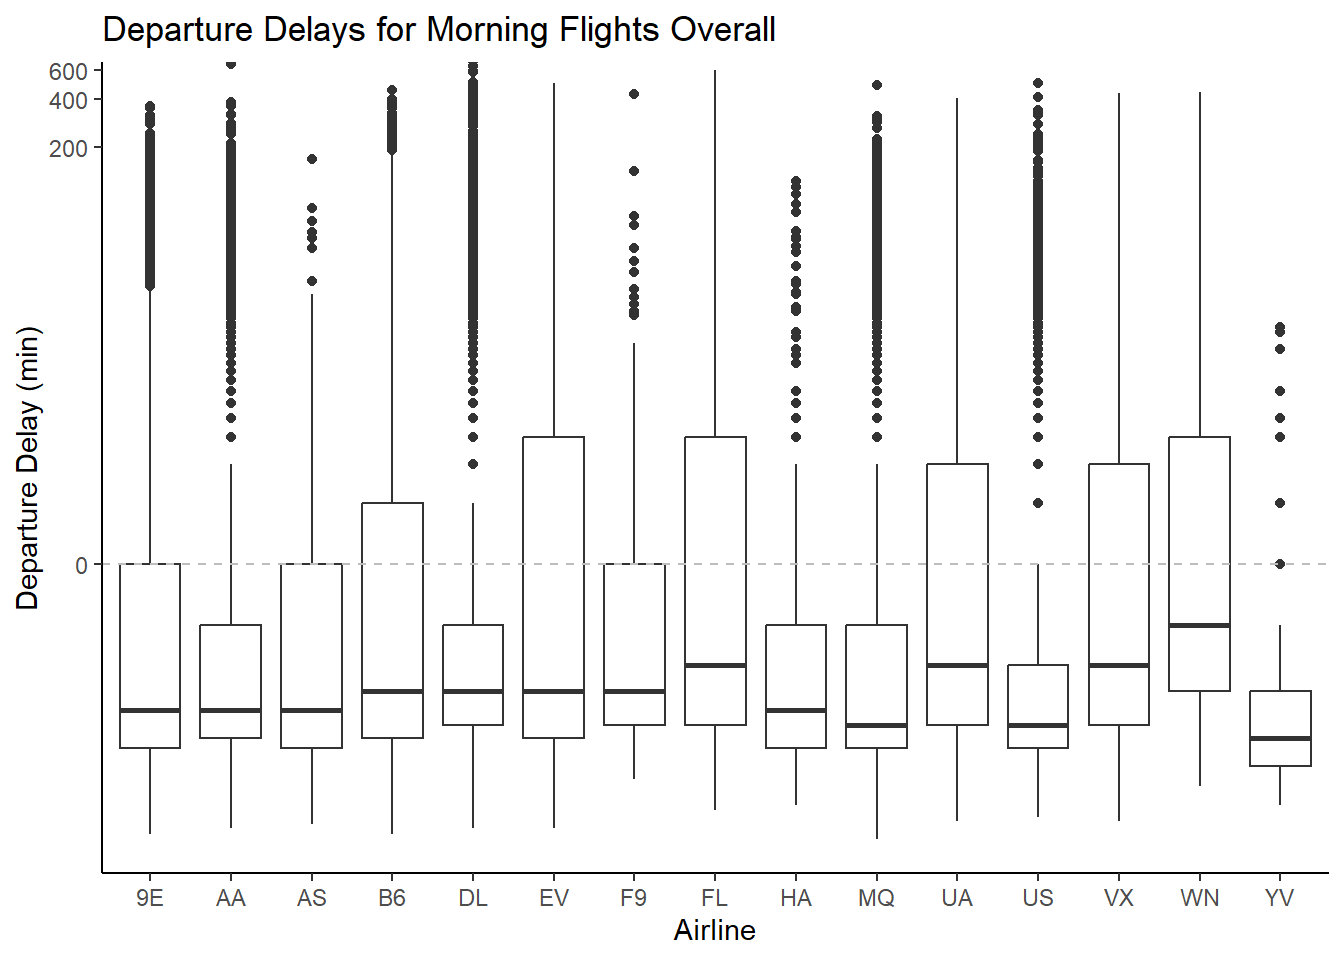
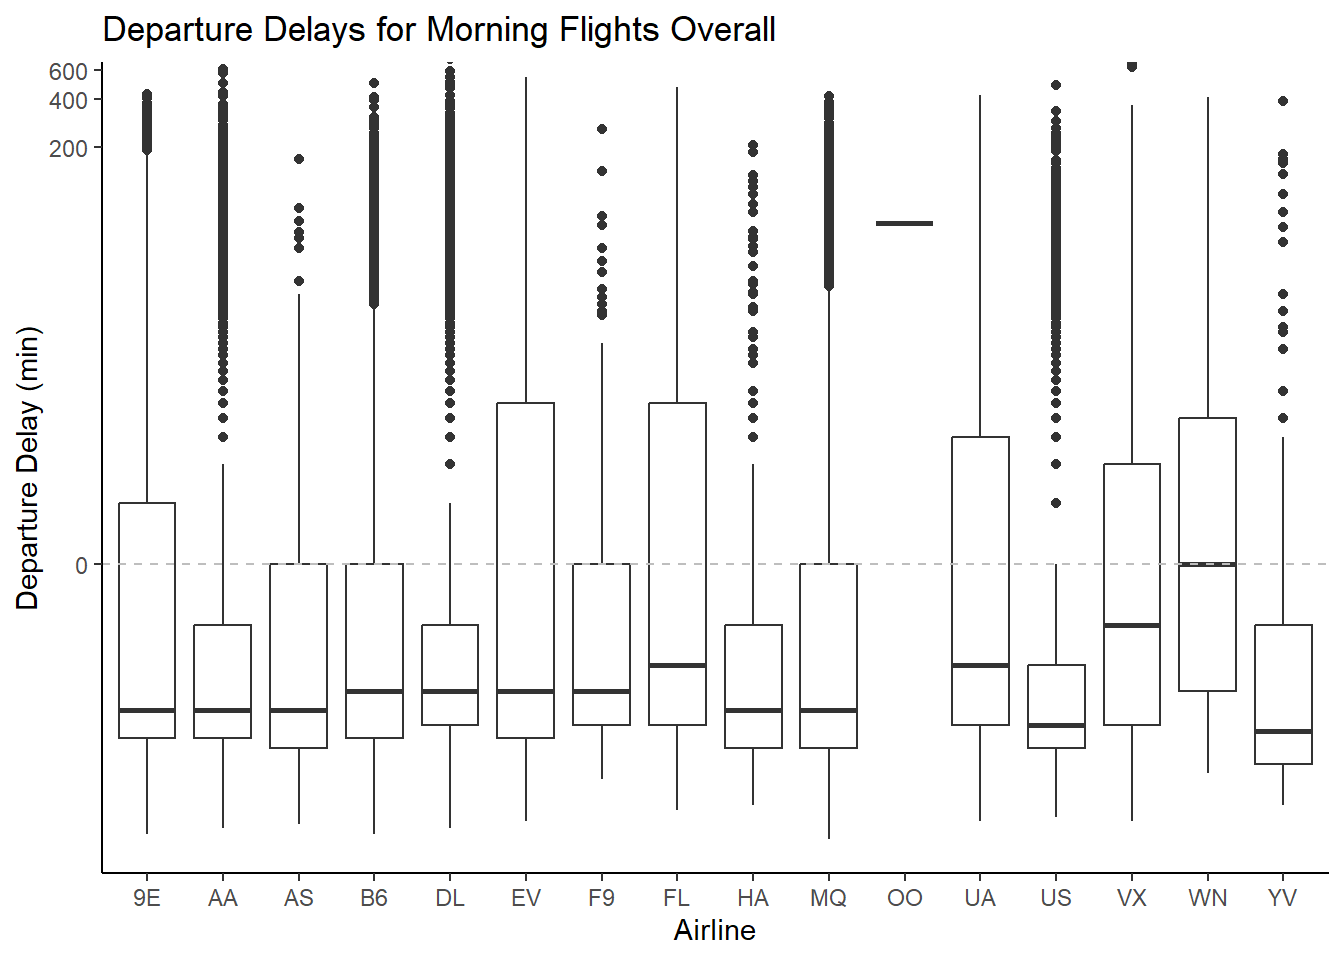
Updated x-axis labels and corrected data filtering

diff --git a/week_03/Wings to Fly.html b/week_03/Wings to Fly.html
@@ -148,7 +148,7 @@ The following object is masked from 'package:readr':
 <details class="code-fold">
 <summary>Code</summary>
 <div class="sourceCode cell-code" id="cb7"><pre class="sourceCode r code-with-copy"><code class="sourceCode r"><span id="cb7-1"><a href="#cb7-1" aria-hidden="true" tabindex="-1"></a>flights2 <span class="ot">&lt;-</span> flights <span class="sc">%&gt;%</span></span>
-<span id="cb7-2"><a href="#cb7-2" aria-hidden="true" tabindex="-1"></a>  <span class="fu">filter</span>(dep_time <span class="sc">&lt;</span> <span class="dv">1200</span>)</span>
+<span id="cb7-2"><a href="#cb7-2" aria-hidden="true" tabindex="-1"></a>  <span class="fu">filter</span>(sched_dep_time <span class="sc">&lt;</span> <span class="dv">1200</span>)</span>
 <span id="cb7-3"><a href="#cb7-3" aria-hidden="true" tabindex="-1"></a></span>
 <span id="cb7-4"><a href="#cb7-4" aria-hidden="true" tabindex="-1"></a>flights3 <span class="ot">&lt;-</span> flights <span class="sc">%&gt;%</span> </span>
 <span id="cb7-5"><a href="#cb7-5" aria-hidden="true" tabindex="-1"></a>  <span class="fu">filter</span>(carrier <span class="sc">==</span> <span class="st">"DL"</span>)</span></code><button title="Copy to Clipboard" class="code-copy-button"><i class="bi"></i></button></pre></div>
@@ -167,6 +167,10 @@ The following object is masked from 'package:readr':
 <span id="cb8-6"><a href="#cb8-6" aria-hidden="true" tabindex="-1"></a>  <span class="fu">labs</span>( <span class="at">title =</span> <span class="st">"Departure Delays for Morning Flights Overall"</span>, <span class="at">x =</span> <span class="st">"Airline"</span>, <span class="at">y =</span> <span class="st">"Departure Delay (min)"</span>) <span class="sc">+</span> </span>
 <span id="cb8-7"><a href="#cb8-7" aria-hidden="true" tabindex="-1"></a>  <span class="fu">theme_classic</span>()</span></code><button title="Copy to Clipboard" class="code-copy-button"><i class="bi"></i></button></pre></div>
 </details>
+<div class="cell-output cell-output-stderr">
+<pre><code>Warning: Removed 2079 rows containing non-finite outside the scale range
+(`stat_boxplot()`).</code></pre>
+</div>
 <div class="cell-output-display">
 <div>
 <figure class="figure">
@@ -176,15 +180,20 @@ The following object is masked from 'package:readr':
 </div>
 <details class="code-fold">
 <summary>Code</summary>
-<div class="sourceCode cell-code" id="cb9"><pre class="sourceCode r code-with-copy"><code class="sourceCode r"><span id="cb9-1"><a href="#cb9-1" aria-hidden="true" tabindex="-1"></a><span class="fu">ggplot</span>(flights2, <span class="fu">aes</span>(<span class="at">x =</span> carrier, <span class="at">y =</span> dep_delay, <span class="at">color =</span> origin)) <span class="sc">+</span></span>
-<span id="cb9-2"><a href="#cb9-2" aria-hidden="true" tabindex="-1"></a>  <span class="fu">geom_boxplot</span>() <span class="sc">+</span></span>
-<span id="cb9-3"><a href="#cb9-3" aria-hidden="true" tabindex="-1"></a>  <span class="fu">geom_hline</span>(<span class="at">yintercept =</span> <span class="dv">0</span>, <span class="at">linetype =</span> <span class="st">"dashed"</span>, <span class="at">color =</span> <span class="st">"gray"</span>) <span class="sc">+</span></span>
-<span id="cb9-4"><a href="#cb9-4" aria-hidden="true" tabindex="-1"></a>  <span class="fu">coord_cartesian</span>(<span class="at">ylim =</span> <span class="fu">c</span>(<span class="sc">-</span><span class="dv">25</span>, <span class="dv">400</span>)) <span class="sc">+</span></span>
-<span id="cb9-5"><a href="#cb9-5" aria-hidden="true" tabindex="-1"></a>  <span class="fu">scale_y_continuous</span>(<span class="at">trans =</span> <span class="fu">asinh_trans</span>()) <span class="sc">+</span></span>
-<span id="cb9-6"><a href="#cb9-6" aria-hidden="true" tabindex="-1"></a>  <span class="fu">labs</span>( <span class="at">title =</span> <span class="st">"Departure Delays for Morning Flights"</span>, <span class="at">x =</span> <span class="st">"Airline"</span>, <span class="at">y =</span> <span class="st">"Departure Delay (min)"</span>) <span class="sc">+</span> </span>
-<span id="cb9-7"><a href="#cb9-7" aria-hidden="true" tabindex="-1"></a>  <span class="fu">facet_wrap</span>( <span class="sc">~</span>origin, <span class="at">nrow =</span> <span class="dv">1</span>, <span class="at">ncol =</span> <span class="dv">3</span>) <span class="sc">+</span></span>
-<span id="cb9-8"><a href="#cb9-8" aria-hidden="true" tabindex="-1"></a>  <span class="fu">theme_classic</span>()</span></code><button title="Copy to Clipboard" class="code-copy-button"><i class="bi"></i></button></pre></div>
+<div class="sourceCode cell-code" id="cb10"><pre class="sourceCode r code-with-copy"><code class="sourceCode r"><span id="cb10-1"><a href="#cb10-1" aria-hidden="true" tabindex="-1"></a><span class="fu">ggplot</span>(flights2, <span class="fu">aes</span>(<span class="at">x =</span> carrier, <span class="at">y =</span> dep_delay, <span class="at">color =</span> origin)) <span class="sc">+</span></span>
+<span id="cb10-2"><a href="#cb10-2" aria-hidden="true" tabindex="-1"></a>  <span class="fu">geom_boxplot</span>() <span class="sc">+</span></span>
+<span id="cb10-3"><a href="#cb10-3" aria-hidden="true" tabindex="-1"></a>  <span class="fu">geom_hline</span>(<span class="at">yintercept =</span> <span class="dv">0</span>, <span class="at">linetype =</span> <span class="st">"dashed"</span>, <span class="at">color =</span> <span class="st">"gray"</span>) <span class="sc">+</span></span>
+<span id="cb10-4"><a href="#cb10-4" aria-hidden="true" tabindex="-1"></a>  <span class="fu">coord_cartesian</span>(<span class="at">ylim =</span> <span class="fu">c</span>(<span class="sc">-</span><span class="dv">25</span>, <span class="dv">400</span>)) <span class="sc">+</span></span>
+<span id="cb10-5"><a href="#cb10-5" aria-hidden="true" tabindex="-1"></a>  <span class="fu">scale_y_continuous</span>(<span class="at">trans =</span> <span class="fu">asinh_trans</span>()) <span class="sc">+</span></span>
+<span id="cb10-6"><a href="#cb10-6" aria-hidden="true" tabindex="-1"></a>  <span class="fu">scale_x_discrete</span>(<span class="at">guide =</span> <span class="fu">guide_axis</span>(<span class="at">angle =</span> <span class="dv">90</span>)) <span class="sc">+</span></span>
+<span id="cb10-7"><a href="#cb10-7" aria-hidden="true" tabindex="-1"></a>  <span class="fu">labs</span>( <span class="at">title =</span> <span class="st">"Departure Delays for Morning Flights"</span>, <span class="at">x =</span> <span class="st">"Airline"</span>, <span class="at">y =</span> <span class="st">"Departure Delay (min)"</span>) <span class="sc">+</span> </span>
+<span id="cb10-8"><a href="#cb10-8" aria-hidden="true" tabindex="-1"></a>  <span class="fu">facet_wrap</span>( <span class="sc">~</span>origin, <span class="at">nrow =</span> <span class="dv">1</span>, <span class="at">ncol =</span> <span class="dv">3</span>) <span class="sc">+</span></span>
+<span id="cb10-9"><a href="#cb10-9" aria-hidden="true" tabindex="-1"></a>  <span class="fu">theme_classic</span>()</span></code><button title="Copy to Clipboard" class="code-copy-button"><i class="bi"></i></button></pre></div>
 </details>
+<div class="cell-output cell-output-stderr">
+<pre><code>Warning: Removed 2079 rows containing non-finite outside the scale range
+(`stat_boxplot()`).</code></pre>
+</div>
 <div class="cell-output-display">
 <div>
 <figure class="figure">
@@ -193,21 +202,21 @@ The following object is masked from 'package:readr':
 </div>
 </div>
 </div>
-<p>The origin airport with the lowest 75th percentile of flights leaving before noon with delayed departure is YV. Overall, YV flights depart ahead of schedule for the majority of their flights.</p>
-<p>However, for each of these airports, the airline carrier with the lowest 75th percentile is different. Departing from EWR airport, 9E, DL, and US are nearly exactly tied for the lowest 75th percentile of delayed departure flights. At JFK ariport, HA and DL are nearly exactly tied for the lowest 75th percentile of delayed departure flights. At LGA, US and YV are tied for the lowest 75th percentile of delayed departure flights. This means that</p>
+<p>The origin airport with the lowest 75th percentile of flights leaving before noon with delayed departure is US. Overall, US flights depart ahead of schedule for the majority of their flights.</p>
+<p>However, for each of these airports, the airline carrier with the lowest 75th percentile is different. Departing from EWR airport, 9E and US are nearly exactly tied for the lowest 75th percentile of delayed departure flights. At JFK ariport, HA and DL are nearly exactly tied for the lowest 75th percentile of delayed departure flights. At LGA, US claims the lowest 75th percentile of delayed departure flights.</p>
 </section>
 <section id="which-origin-airport-is-best-to-minimize-my-chances-of-a-late-arrival-when-i-am-using-delta-airlines" class="level2">
 <h2 class="anchored" data-anchor-id="which-origin-airport-is-best-to-minimize-my-chances-of-a-late-arrival-when-i-am-using-delta-airlines">Which origin airport is best to minimize my chances of a late arrival when I am using Delta Airlines?</h2>
 <div class="cell">
 <details class="code-fold">
 <summary>Code</summary>
-<div class="sourceCode cell-code" id="cb10"><pre class="sourceCode r code-with-copy"><code class="sourceCode r"><span id="cb10-1"><a href="#cb10-1" aria-hidden="true" tabindex="-1"></a><span class="fu">ggplot</span>(flights3, <span class="fu">aes</span>(<span class="at">x =</span> sched_arr_time, <span class="at">y =</span> arr_delay, <span class="at">color =</span> origin)) <span class="sc">+</span></span>
-<span id="cb10-2"><a href="#cb10-2" aria-hidden="true" tabindex="-1"></a>  <span class="fu">geom_point</span>() <span class="sc">+</span></span>
-<span id="cb10-3"><a href="#cb10-3" aria-hidden="true" tabindex="-1"></a>  <span class="fu">geom_smooth</span>(<span class="at">color =</span> <span class="st">"black"</span>) <span class="sc">+</span></span>
-<span id="cb10-4"><a href="#cb10-4" aria-hidden="true" tabindex="-1"></a>  <span class="fu">labs</span>(<span class="at">title =</span> <span class="st">"Delayed Arrival Flying Delta"</span>, <span class="at">x =</span> <span class="st">"Scheduled Arrival (min)"</span>, <span class="at">y =</span> <span class="st">"Delayed Arrival (min)"</span>) <span class="sc">+</span></span>
-<span id="cb10-5"><a href="#cb10-5" aria-hidden="true" tabindex="-1"></a>  <span class="fu">coord_cartesian</span>(<span class="at">ylim =</span> <span class="fu">c</span>(<span class="sc">-</span><span class="dv">50</span>, <span class="dv">400</span>)) <span class="sc">+</span></span>
-<span id="cb10-6"><a href="#cb10-6" aria-hidden="true" tabindex="-1"></a>  <span class="fu">facet_wrap</span>( <span class="sc">~</span> origin, <span class="at">nrow =</span> <span class="dv">1</span>, <span class="at">ncol=</span> <span class="dv">3</span>) <span class="sc">+</span></span>
-<span id="cb10-7"><a href="#cb10-7" aria-hidden="true" tabindex="-1"></a>  <span class="fu">theme_bw</span>()</span></code><button title="Copy to Clipboard" class="code-copy-button"><i class="bi"></i></button></pre></div>
+<div class="sourceCode cell-code" id="cb12"><pre class="sourceCode r code-with-copy"><code class="sourceCode r"><span id="cb12-1"><a href="#cb12-1" aria-hidden="true" tabindex="-1"></a><span class="fu">ggplot</span>(flights3, <span class="fu">aes</span>(<span class="at">x =</span> sched_arr_time, <span class="at">y =</span> arr_delay, <span class="at">color =</span> origin)) <span class="sc">+</span></span>
+<span id="cb12-2"><a href="#cb12-2" aria-hidden="true" tabindex="-1"></a>  <span class="fu">geom_point</span>() <span class="sc">+</span></span>
+<span id="cb12-3"><a href="#cb12-3" aria-hidden="true" tabindex="-1"></a>  <span class="fu">geom_smooth</span>(<span class="at">color =</span> <span class="st">"black"</span>) <span class="sc">+</span></span>
+<span id="cb12-4"><a href="#cb12-4" aria-hidden="true" tabindex="-1"></a>  <span class="fu">labs</span>(<span class="at">title =</span> <span class="st">"Delayed Arrival Flying Delta"</span>, <span class="at">x =</span> <span class="st">"Scheduled Arrival (min)"</span>, <span class="at">y =</span> <span class="st">"Delayed Arrival (min)"</span>) <span class="sc">+</span></span>
+<span id="cb12-5"><a href="#cb12-5" aria-hidden="true" tabindex="-1"></a>  <span class="fu">coord_cartesian</span>(<span class="at">ylim =</span> <span class="fu">c</span>(<span class="sc">-</span><span class="dv">50</span>, <span class="dv">400</span>)) <span class="sc">+</span></span>
+<span id="cb12-6"><a href="#cb12-6" aria-hidden="true" tabindex="-1"></a>  <span class="fu">facet_wrap</span>( <span class="sc">~</span> origin, <span class="at">nrow =</span> <span class="dv">1</span>, <span class="at">ncol=</span> <span class="dv">3</span>) <span class="sc">+</span></span>
+<span id="cb12-7"><a href="#cb12-7" aria-hidden="true" tabindex="-1"></a>  <span class="fu">theme_bw</span>()</span></code><button title="Copy to Clipboard" class="code-copy-button"><i class="bi"></i></button></pre></div>
 </details>
 <div class="cell-output cell-output-stderr">
 <pre><code>`geom_smooth()` using method = 'gam' and formula = 'y ~ s(x, bs = "cs")'</code></pre>
@@ -229,11 +238,11 @@ The following object is masked from 'package:readr':
 </div>
 <details class="code-fold">
 <summary>Code</summary>
-<div class="sourceCode cell-code" id="cb14"><pre class="sourceCode r code-with-copy"><code class="sourceCode r"><span id="cb14-1"><a href="#cb14-1" aria-hidden="true" tabindex="-1"></a><span class="fu">ggplot</span>(flights3, <span class="fu">aes</span>(<span class="at">x =</span> origin, <span class="at">y =</span> arr_delay, <span class="at">color =</span> origin)) <span class="sc">+</span></span>
-<span id="cb14-2"><a href="#cb14-2" aria-hidden="true" tabindex="-1"></a>  <span class="fu">geom_boxplot</span>() <span class="sc">+</span></span>
-<span id="cb14-3"><a href="#cb14-3" aria-hidden="true" tabindex="-1"></a>  <span class="fu">labs</span>(<span class="at">title =</span> <span class="st">"Delayed Arrival Flying Delta"</span>, <span class="at">x =</span> <span class="st">"Arrival Delay (min)"</span>, <span class="at">y =</span> <span class="st">"Origin Airport"</span>) <span class="sc">+</span></span>
-<span id="cb14-4"><a href="#cb14-4" aria-hidden="true" tabindex="-1"></a>  <span class="fu">coord_cartesian</span>(<span class="at">ylim =</span> <span class="fu">c</span>(<span class="sc">-</span><span class="dv">50</span>, <span class="dv">400</span>)) <span class="sc">+</span></span>
-<span id="cb14-5"><a href="#cb14-5" aria-hidden="true" tabindex="-1"></a>  <span class="fu">theme_bw</span>()</span></code><button title="Copy to Clipboard" class="code-copy-button"><i class="bi"></i></button></pre></div>
+<div class="sourceCode cell-code" id="cb16"><pre class="sourceCode r code-with-copy"><code class="sourceCode r"><span id="cb16-1"><a href="#cb16-1" aria-hidden="true" tabindex="-1"></a><span class="fu">ggplot</span>(flights3, <span class="fu">aes</span>(<span class="at">x =</span> origin, <span class="at">y =</span> arr_delay, <span class="at">color =</span> origin)) <span class="sc">+</span></span>
+<span id="cb16-2"><a href="#cb16-2" aria-hidden="true" tabindex="-1"></a>  <span class="fu">geom_boxplot</span>() <span class="sc">+</span></span>
+<span id="cb16-3"><a href="#cb16-3" aria-hidden="true" tabindex="-1"></a>  <span class="fu">labs</span>(<span class="at">title =</span> <span class="st">"Delayed Arrival Flying Delta"</span>, <span class="at">x =</span> <span class="st">"Arrival Delay (min)"</span>, <span class="at">y =</span> <span class="st">"Origin Airport"</span>) <span class="sc">+</span></span>
+<span id="cb16-4"><a href="#cb16-4" aria-hidden="true" tabindex="-1"></a>  <span class="fu">coord_cartesian</span>(<span class="at">ylim =</span> <span class="fu">c</span>(<span class="sc">-</span><span class="dv">50</span>, <span class="dv">400</span>)) <span class="sc">+</span></span>
+<span id="cb16-5"><a href="#cb16-5" aria-hidden="true" tabindex="-1"></a>  <span class="fu">theme_bw</span>()</span></code><button title="Copy to Clipboard" class="code-copy-button"><i class="bi"></i></button></pre></div>
 </details>
 <div class="cell-output cell-output-stderr">
 <pre><code>Warning: Removed 452 rows containing non-finite outside the scale range

diff --git a/week_03/Wings to Fly.html.md b/week_03/Wings to Fly.html.md
@@ -76,7 +76,7 @@ The following object is masked from 'package:readr':
 
 ```{.r .cell-code}
 flights2 <- flights %>%
-  filter(dep_time < 1200)
+  filter(sched_dep_time < 1200)
 
 flights3 <- flights %>% 
   filter(carrier == "DL")
@@ -99,6 +99,16 @@ ggplot(flights2, aes(x = carrier, y = dep_delay)) +
   theme_classic()
 ```
 
+::: {.cell-output .cell-output-stderr}
+
+```
+Warning: Removed 2079 rows containing non-finite outside the scale range
+(`stat_boxplot()`).
+```
+
+
+:::
+
 ::: {.cell-output-display}
 ![](Wings-to-Fly_files/figure-html/unnamed-chunk-3-1.png){width=672}
 :::
@@ -109,10 +119,21 @@ ggplot(flights2, aes(x = carrier, y = dep_delay, color = origin)) +
   geom_hline(yintercept = 0, linetype = "dashed", color = "gray") +
   coord_cartesian(ylim = c(-25, 400)) +
   scale_y_continuous(trans = asinh_trans()) +
+  scale_x_discrete(guide = guide_axis(angle = 90)) +
   labs( title = "Departure Delays for Morning Flights", x = "Airline", y = "Departure Delay (min)") + 
   facet_wrap( ~origin, nrow = 1, ncol = 3) +
   theme_classic()
 ```
+
+::: {.cell-output .cell-output-stderr}
+
+```
+Warning: Removed 2079 rows containing non-finite outside the scale range
+(`stat_boxplot()`).
+```
+
+
+:::
 
 ::: {.cell-output-display}
 ![](Wings-to-Fly_files/figure-html/unnamed-chunk-3-2.png){width=672}
@@ -120,9 +141,9 @@ ggplot(flights2, aes(x = carrier, y = dep_delay, color = origin)) +
 :::
 
 
-The origin airport with the lowest 75th percentile of flights leaving before noon with delayed departure is YV. Overall, YV flights depart ahead of schedule for the majority of their flights.
+The origin airport with the lowest 75th percentile of flights leaving before noon with delayed departure is US. Overall, US flights depart ahead of schedule for the majority of their flights.
 
-However, for each of these airports, the airline carrier with the lowest 75th percentile is different. Departing from EWR airport, 9E, DL, and US are nearly exactly tied for the lowest 75th percentile of delayed departure flights. At JFK ariport, HA and DL are nearly exactly tied for the lowest 75th percentile of delayed departure flights. At LGA, US and YV are tied for the lowest 75th percentile of delayed departure flights. This means that 
+However, for each of these airports, the airline carrier with the lowest 75th percentile is different. Departing from EWR airport, 9E and US are nearly exactly tied for the lowest 75th percentile of delayed departure flights. At JFK ariport, HA and DL are nearly exactly tied for the lowest 75th percentile of delayed departure flights. At LGA, US claims the lowest 75th percentile of delayed departure flights.
 
 ## Which origin airport is best to minimize my chances of a late arrival when I am using Delta Airlines?
 
